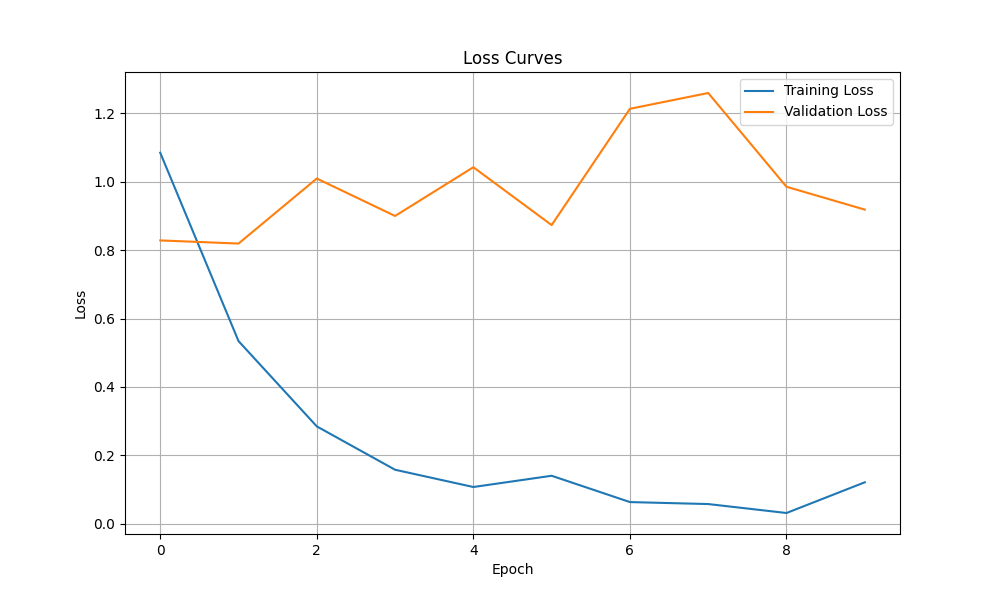
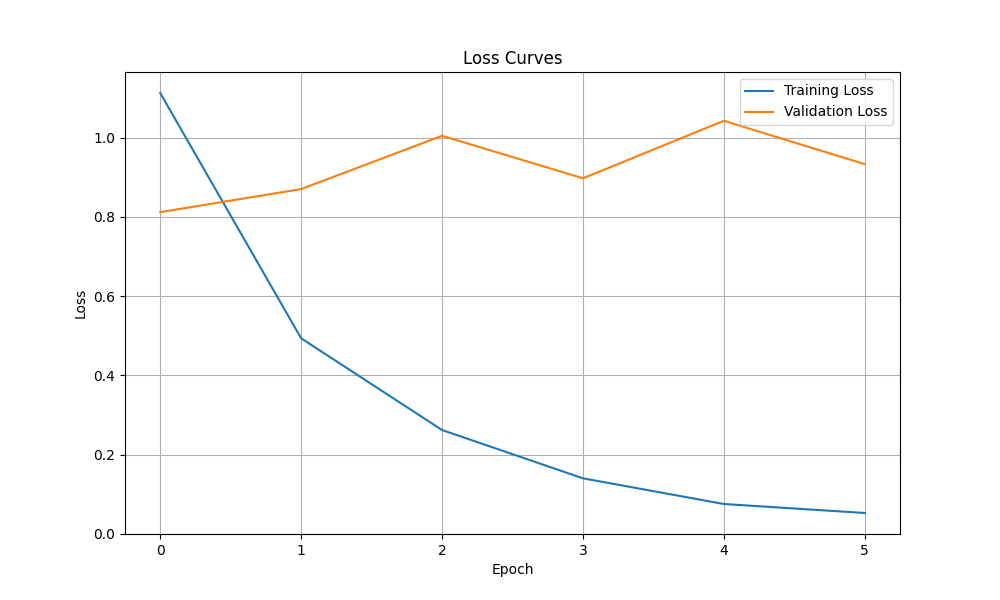
Added partial fine tuning and validation loss checkpointing

diff --git a/src/train.py b/src/train.py
@@ -71,11 +71,16 @@ model = models.resnet18(weights=weights)
 print("\nModel loaded successfully!")
 
 # ====================================
-# FREEZE FEATURE EXTRACTOR
+# PARTIAL FINE-TUNING
 # ====================================
 
-# for param in model.parameters():
-#     param.requires_grad = False
+# Freeze all layers first
+for param in model.parameters():
+    param.requires_grad = False
+
+# Unfreeze layer4
+for param in model.layer4.parameters():
+    param.requires_grad = True
 
 # ====================================
 # MODIFY FINAL LAYER
@@ -88,9 +93,9 @@ model.fc = nn.Linear(
     num_classes
 )
 
-# Train only classifier layer
-# for param in model.fc.parameters():
-#     param.requires_grad = True
+# Train classifier head
+for param in model.fc.parameters():
+    param.requires_grad = True
 
 print("\nFinal layer:")
 print(model.fc)
@@ -117,7 +122,6 @@ class_counts = torch.tensor([
     327
 ], dtype=torch.float32)
 
-# Better balanced weighting
 class_weights = (
     class_counts.sum() / class_counts
 )
@@ -146,7 +150,10 @@ print("\nLoss function created!")
 # ====================================
 
 optimizer = optim.Adam(
-    model.parameters(),
+    filter(
+        lambda p: p.requires_grad,
+        model.parameters()
+    ),
     lr=0.0001
 )
 
@@ -158,7 +165,7 @@ print("\nOptimizer initialized!")
 
 scheduler = optim.lr_scheduler.ReduceLROnPlateau(
     optimizer,
-    mode="max",
+    mode="min",
     patience=2,
     factor=0.5
 )
@@ -167,11 +174,11 @@ scheduler = optim.lr_scheduler.ReduceLROnPlateau(
 # TRAINING CONFIG
 # ====================================
 
-NUM_EPOCHS = 10
+NUM_EPOCHS = 15
 
-best_val_accuracy = 0.0
+best_val_loss = float("inf")
 
-patience = 3
+patience = 5
 patience_counter = 0
 
 print("\nTraining configuration ready!")
@@ -302,15 +309,15 @@ for epoch in range(NUM_EPOCHS):
     # LR SCHEDULER
     # ====================================
 
-    scheduler.step(val_accuracy)
+    scheduler.step(epoch_val_loss)
 
     # ====================================
     # SAVE BEST MODEL
     # ====================================
 
-    if val_accuracy > best_val_accuracy:
+    if epoch_val_loss < best_val_loss:
 
-        best_val_accuracy = val_accuracy
+        best_val_loss = epoch_val_loss
 
         patience_counter = 0
 
@@ -463,17 +470,16 @@ print("\nClassification Report:\n")
 
 print(report)
 
-# Save report
+# ====================================
+# SAVE REPORTS
+# ====================================
+
 with open(
     "reports/classification_report.txt",
     "w"
 ) as f:
 
     f.write(report)
-
-# ====================================
-# SAVE METRICS
-# ====================================
 
 with open(
     "reports/test_metrics.txt",
@@ -491,8 +497,8 @@ with open(
     )
 
     f.write(
-        f"Best Validation Accuracy: "
-        f"{best_val_accuracy:.2f}%\n"
+        f"Best Validation Loss: "
+        f"{best_val_loss:.4f}\n"
     )
 
     f.write(
@@ -509,7 +515,6 @@ cm = confusion_matrix(
     all_predictions
 )
 
-# Save raw confusion matrix
 np.savetxt(
     "reports/confusion_matrix.csv",
     cm,
@@ -539,7 +544,6 @@ plt.yticks(
 )
 
 plt.xlabel("Predicted")
-
 plt.ylabel("True")
 
 plt.title("Confusion Matrix")
@@ -580,7 +584,6 @@ plt.plot(
 )
 
 plt.xlabel("Epoch")
-
 plt.ylabel("Loss")
 
 plt.title("Loss Curves")
@@ -607,7 +610,6 @@ plt.plot(
 )
 
 plt.xlabel("Epoch")
-
 plt.ylabel("Accuracy (%)")
 
 plt.title("Validation Accuracy")